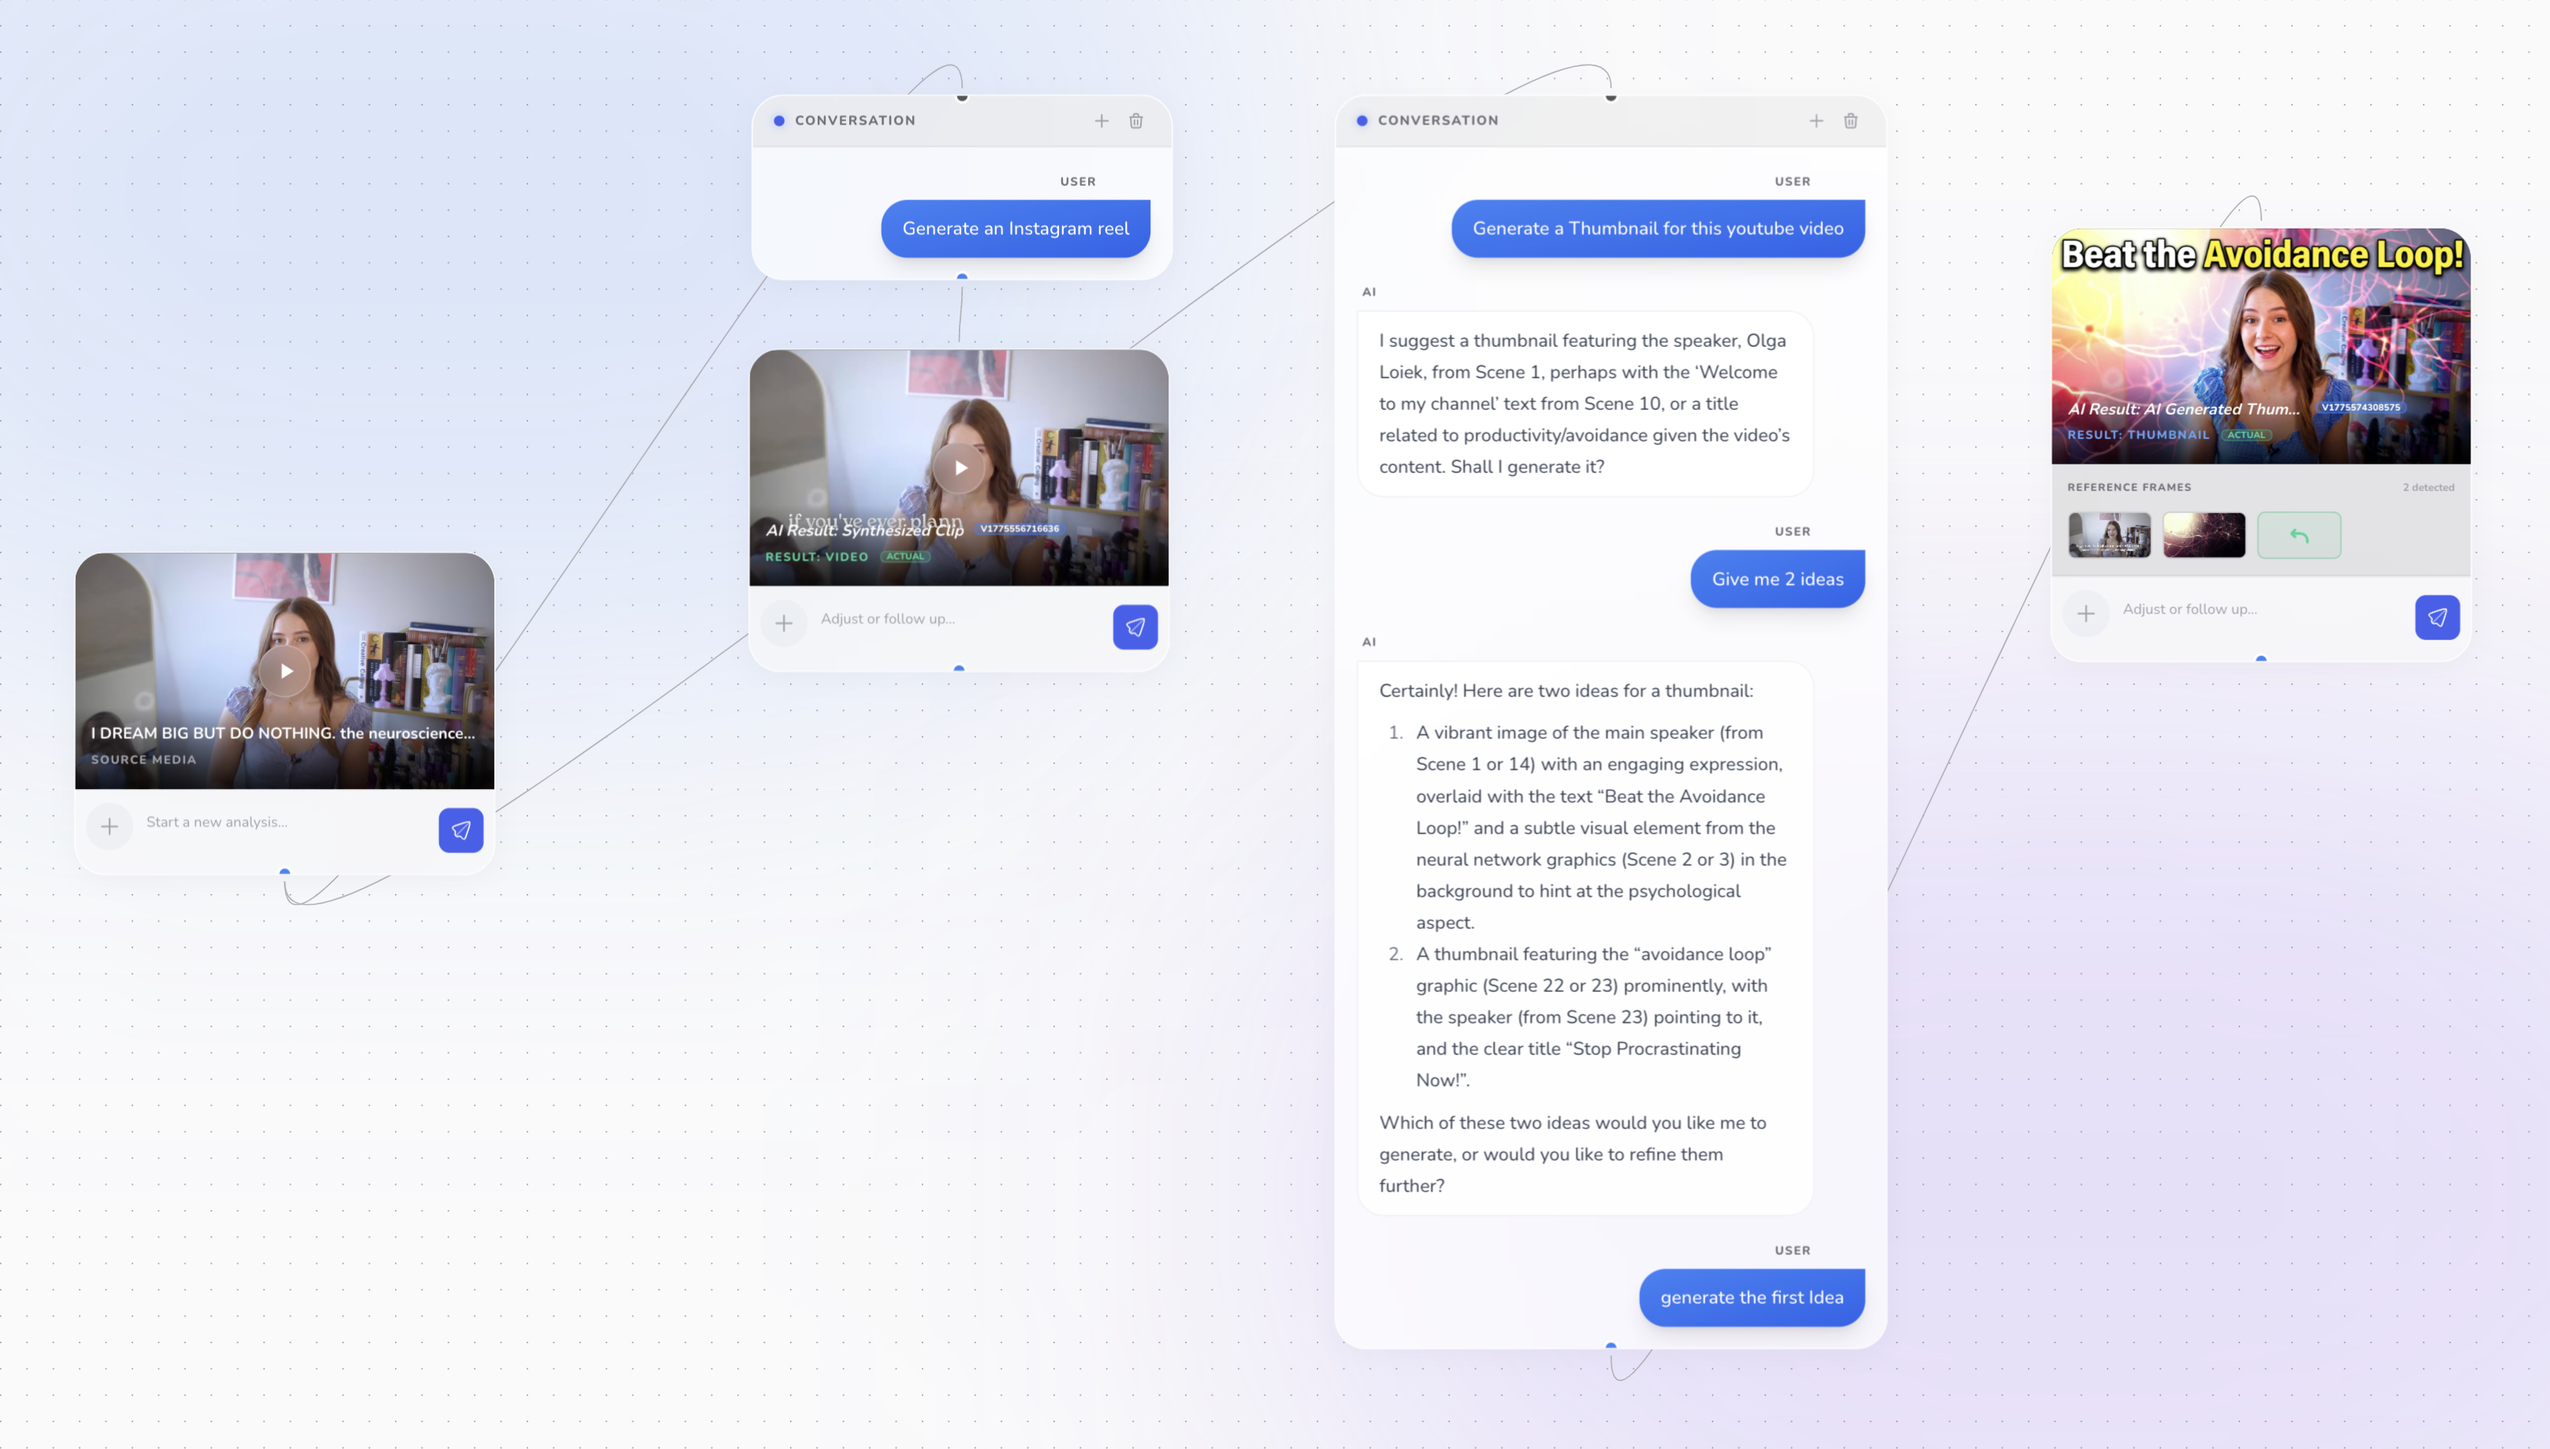
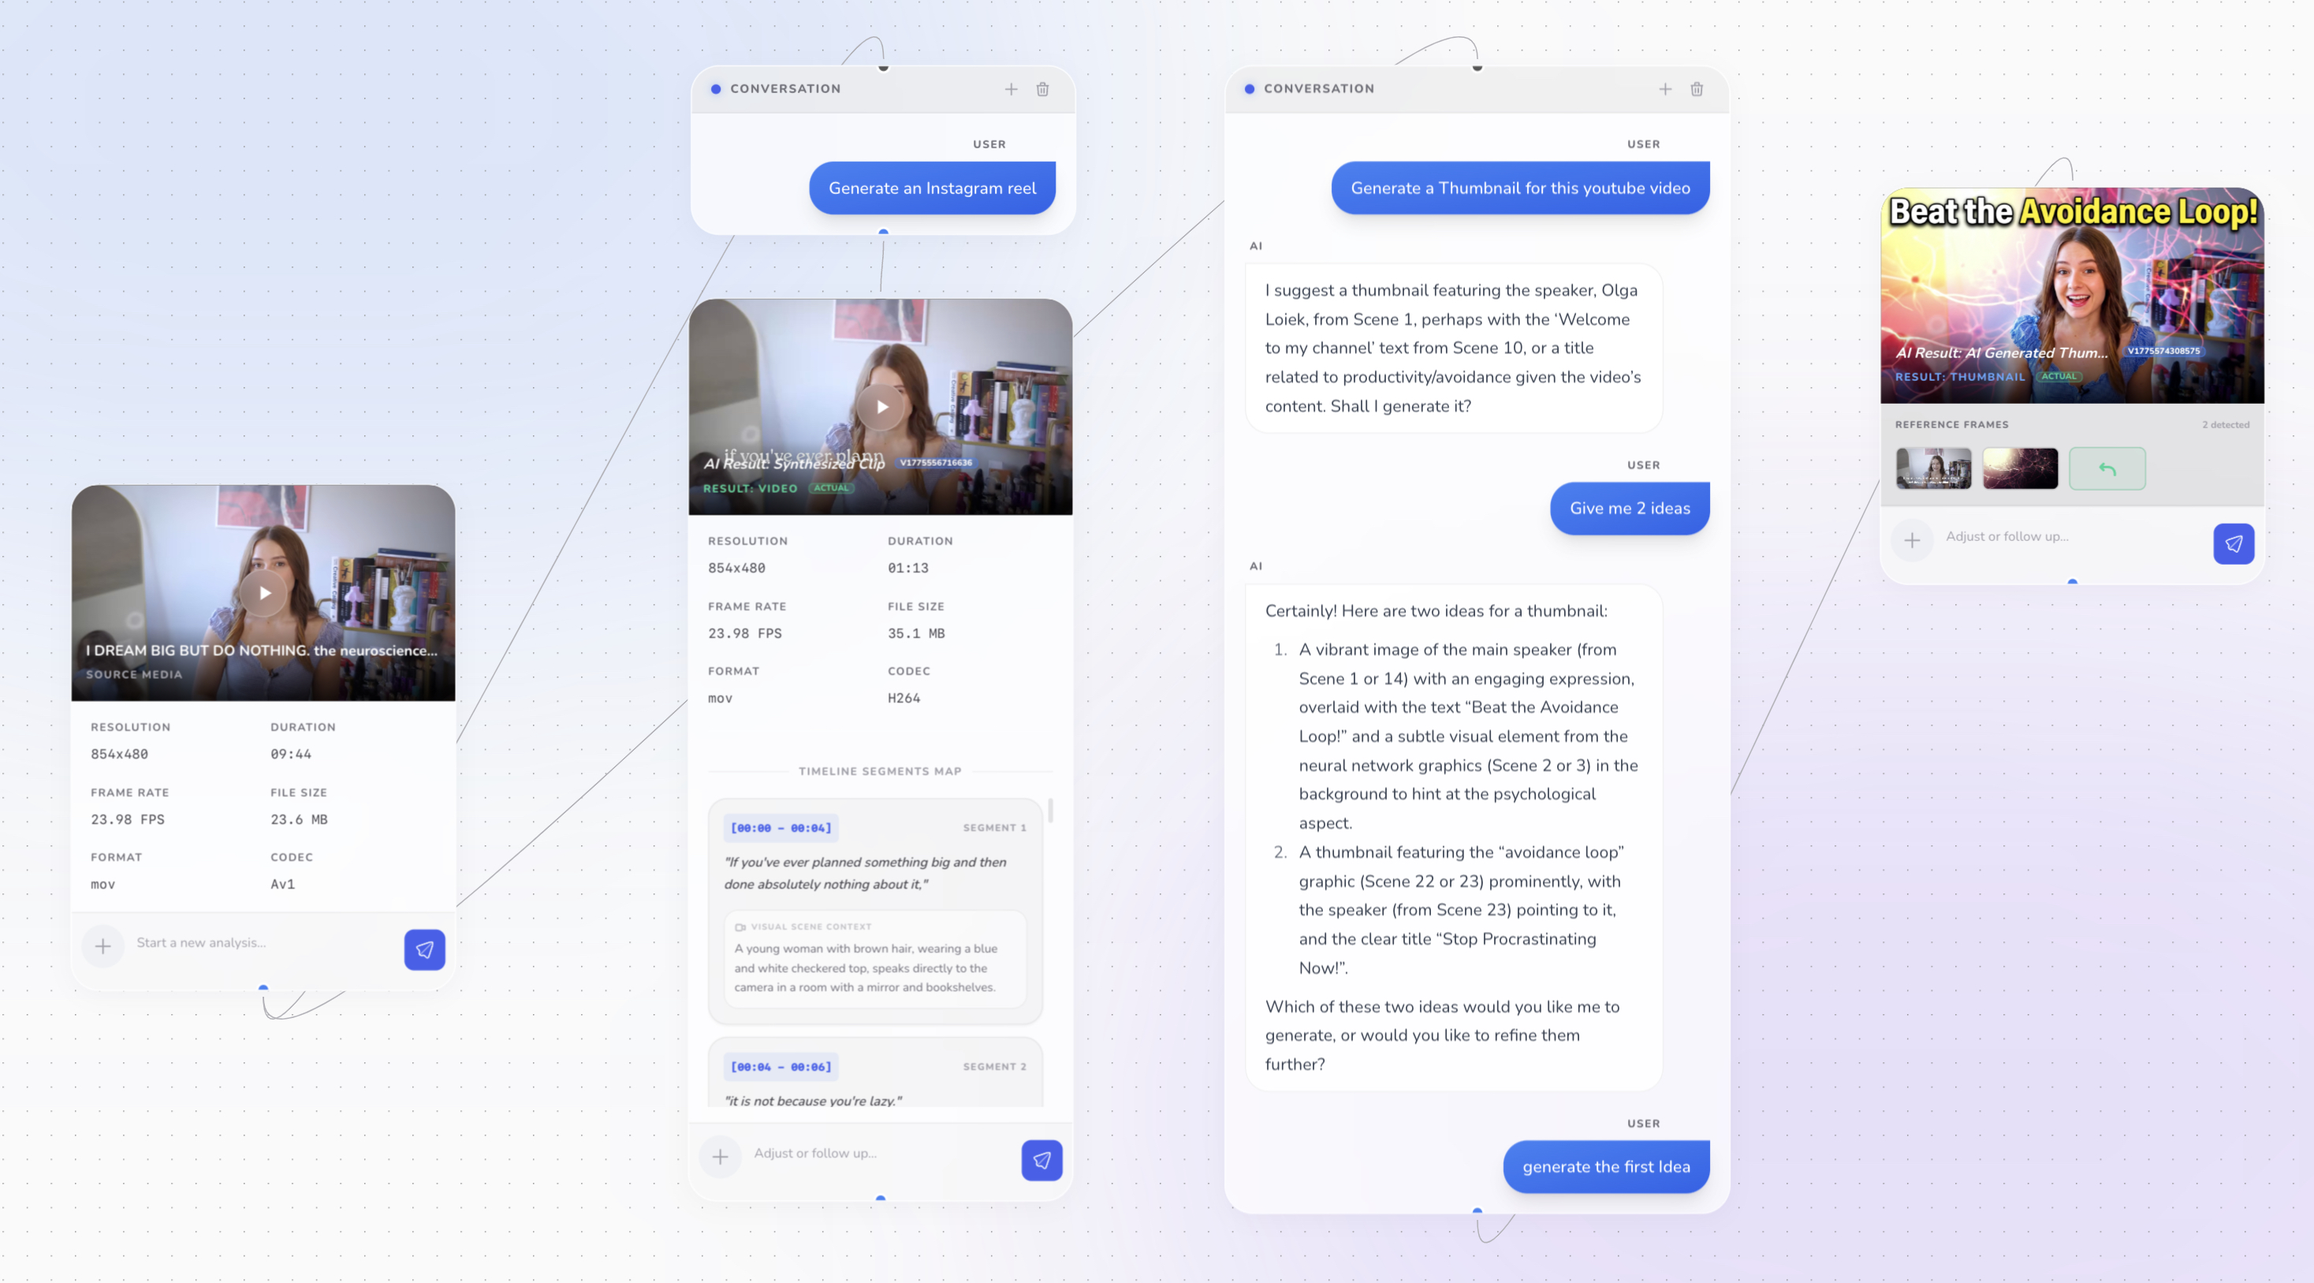
style: update MediaNode metadata text colors to support light mode and refresh screenshot

diff --git a/src/renderer/src/components/graph/MediaNode.vue b/src/renderer/src/components/graph/MediaNode.vue
@@ -50,28 +50,28 @@
     <div v-if="showDetails" class="px-4 py-3 bg-white/5 border-b border-white/5 space-y-2 animate-in slide-in-from-top duration-300">
       <div class="grid grid-cols-2 gap-3">
         <div class="flex flex-col gap-0.5">
-          <span class="text-[9px] font-bold text-zinc-500 uppercase tracking-widest">Resolution</span>
-          <span class="text-[11px] text-zinc-200 font-mono">{{ metadata?.width }}x{{ metadata?.height }}</span>
+          <span class="text-[9px] font-bold text-zinc-500 dark:text-zinc-500 uppercase tracking-widest">Resolution</span>
+          <span class="text-[11px] text-zinc-700 dark:text-zinc-200 font-mono">{{ metadata?.width }}x{{ metadata?.height }}</span>
         </div>
         <div class="flex flex-col gap-0.5">
-          <span class="text-[9px] font-bold text-zinc-500 uppercase tracking-widest">Duration</span>
-          <span class="text-[11px] text-zinc-200 font-mono">{{ formatDuration(metadata?.duration) }}</span>
+          <span class="text-[9px] font-bold text-zinc-500 dark:text-zinc-500 uppercase tracking-widest">Duration</span>
+          <span class="text-[11px] text-zinc-700 dark:text-zinc-200 font-mono">{{ formatDuration(metadata?.duration) }}</span>
         </div>
         <div class="flex flex-col gap-0.5">
-          <span class="text-[9px] font-bold text-zinc-500 uppercase tracking-widest">Frame Rate</span>
-          <span class="text-[11px] text-zinc-200 font-mono">{{ metadata?.fps }} FPS</span>
+          <span class="text-[9px] font-bold text-zinc-500 dark:text-zinc-500 uppercase tracking-widest">Frame Rate</span>
+          <span class="text-[11px] text-zinc-700 dark:text-zinc-200 font-mono">{{ metadata?.fps }} FPS</span>
         </div>
         <div class="flex flex-col gap-0.5">
-          <span class="text-[9px] font-bold text-zinc-500 uppercase tracking-widest">File Size</span>
-          <span class="text-[11px] text-zinc-200 font-mono">{{ formatFileSize(metadata?.size) }}</span>
+          <span class="text-[9px] font-bold text-zinc-500 dark:text-zinc-500 uppercase tracking-widest">File Size</span>
+          <span class="text-[11px] text-zinc-700 dark:text-zinc-200 font-mono">{{ formatFileSize(metadata?.size) }}</span>
         </div>
         <div class="flex flex-col gap-0.5">
-          <span class="text-[9px] font-bold text-zinc-500 uppercase tracking-widest">Format</span>
-          <span class="text-[11px] text-zinc-200 font-mono">{{ metadata?.format?.split(',')[0] }}</span>
+          <span class="text-[9px] font-bold text-zinc-500 dark:text-zinc-500 uppercase tracking-widest">Format</span>
+          <span class="text-[11px] text-zinc-700 dark:text-zinc-200 font-mono">{{ metadata?.format?.split(',')[0] }}</span>
         </div>
         <div class="flex flex-col gap-0.5">
-          <span class="text-[9px] font-bold text-zinc-500 uppercase tracking-widest">Codec</span>
-          <span class="text-[11px] text-zinc-200 font-mono capitalize">{{ metadata?.codec }}</span>
+          <span class="text-[9px] font-bold text-zinc-500 dark:text-zinc-500 uppercase tracking-widest">Codec</span>
+          <span class="text-[11px] text-zinc-700 dark:text-zinc-200 font-mono capitalize">{{ metadata?.codec }}</span>
         </div>
       </div>
     </div>
